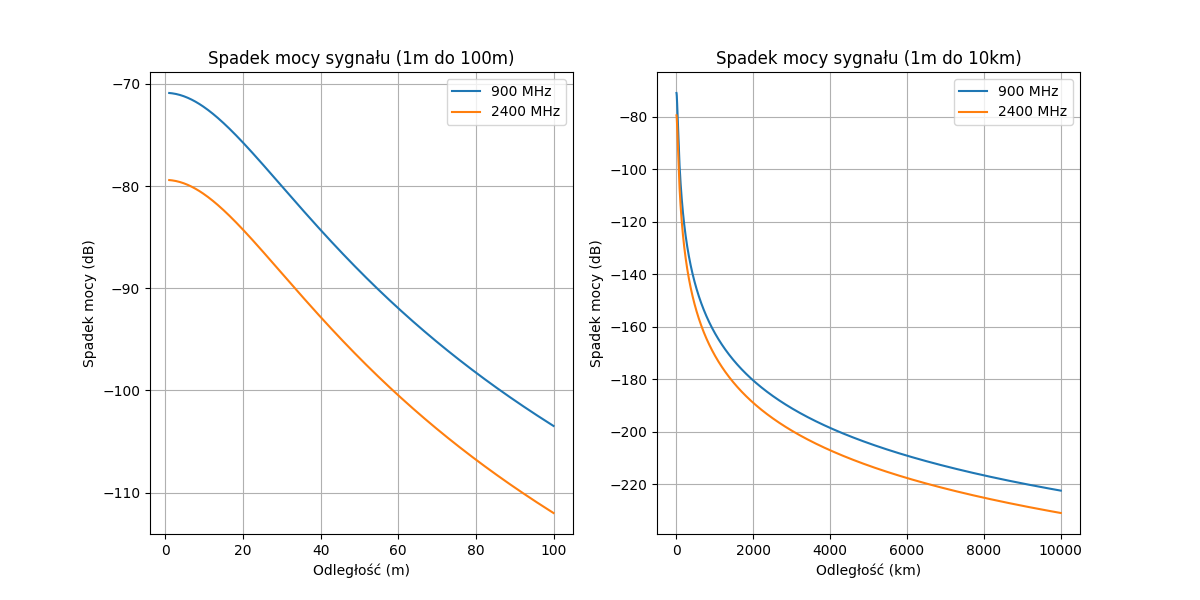
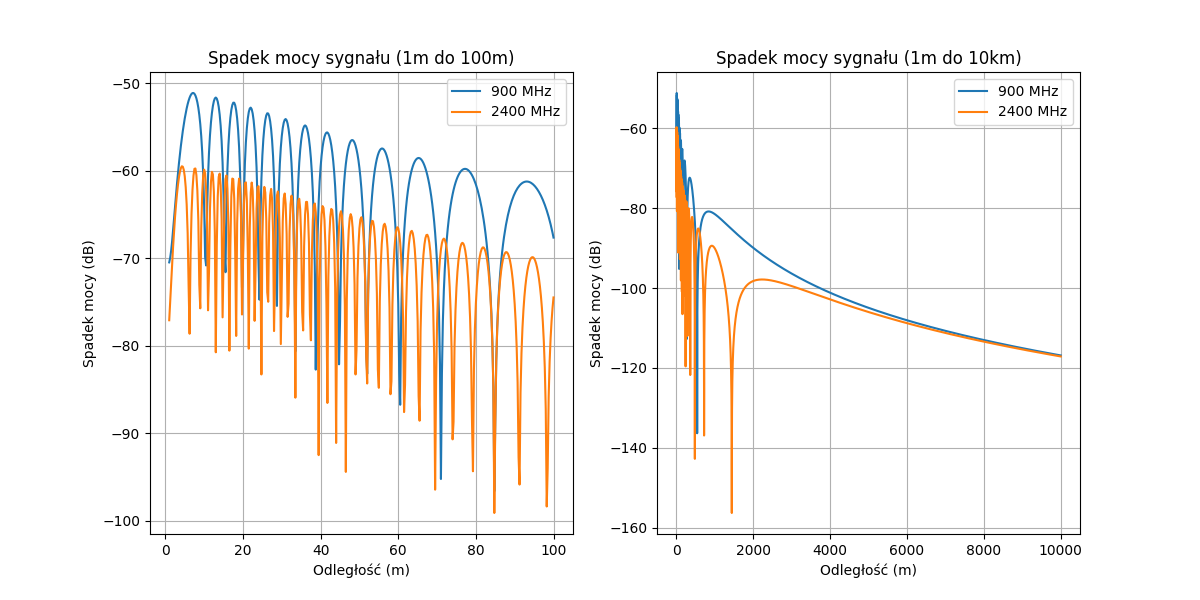
fix task 3

diff --git a/main.py b/main.py
@@ -87,7 +87,9 @@ def calculate_d1_d2(h1, h2, d):
 def multipath_path_loss(Gt, Gr, lambda_, d1, d2, f):
     phi1 = -2 * np.pi * f * d1 / c
     phi2 = -2 * np.pi * f * d2 / c
-    return 10 * np.log10(Gt * Gr * (lambda_ / (4 * np.pi))**2 * (1/d1 * np.abs(np.exp(1j * phi1)) - 1/d2 * np.abs(np.exp(1j * phi2)))**2)
+    value1 = (1/d1) * np.exp(1j * phi1)
+    value2 = (1/d2) * np.exp(1j * phi2)
+    return 10 * np.log10(Gt * Gr * (lambda_ / (4 * np.pi))**2 * np.abs(value1 - value2) **2)
 
 
 distances_1 = np.arange(1, 100.25, 0.25)
@@ -128,7 +130,7 @@ plt.subplot(1, 2, 2)
 plt.plot(distances_2, loss_1_b, label='900 MHz')
 plt.plot(distances_2, loss_2_b, label='2400 MHz')
 plt.title('Spadek mocy sygnału (1m do 10km)')
-plt.xlabel('Odległość (km)')
+plt.xlabel('Odległość (m)')
 plt.ylabel('Spadek mocy (dB)')
 plt.legend()
 plt.grid(True)
